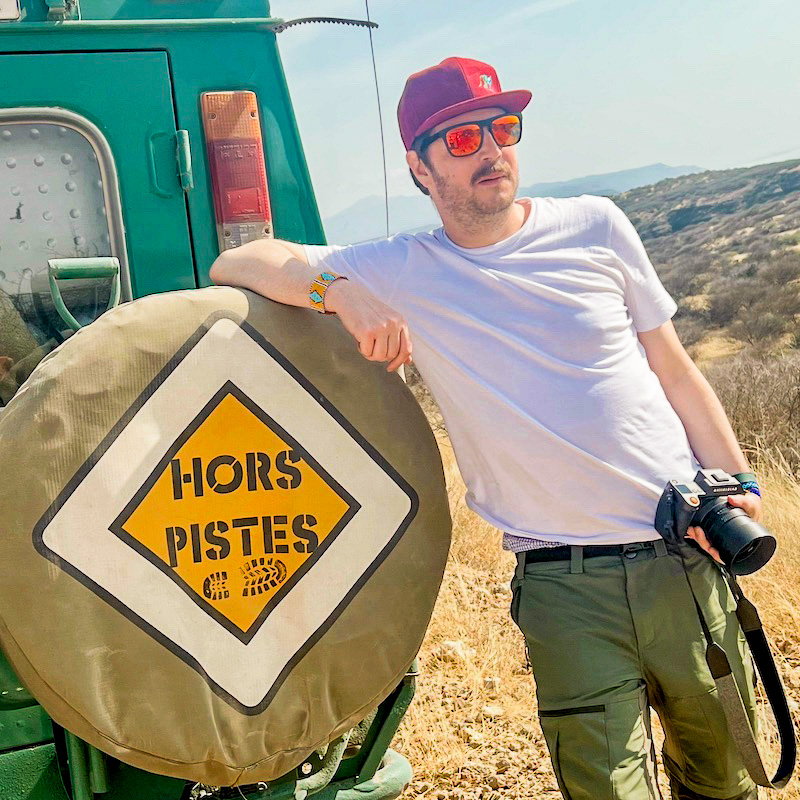
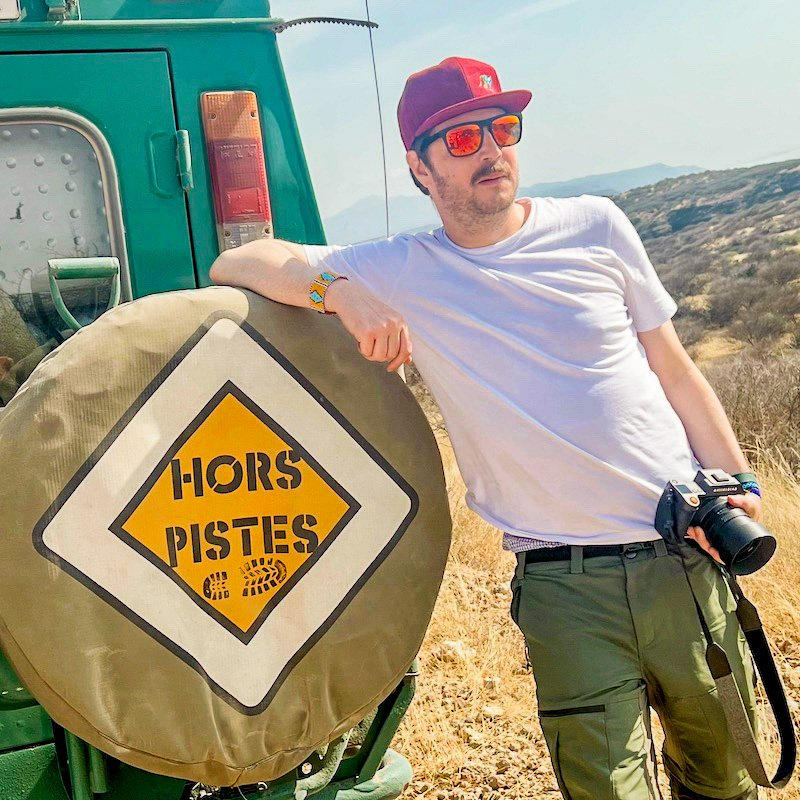
regen website

diff --git a/index.html b/index.html
@@ -11,6 +11,9 @@
 <meta property="og:image" content="https://www.jamesgalt.photo/journal/copenhagen-passages/og.jpg"><meta property="og:type" content="website">
 <meta property="og:url" content="https://www.jamesgalt.photo/">
 <meta name="twitter:card" content="summary_large_image">
+<link rel="icon" href="/favicon.png" sizes="any">
+<link rel="apple-touch-icon" href="/apple-touch-icon.png">
+<link rel="alternate" type="application/atom+xml" title="Journal" href="/journal/feed.xml">
 
 <style>
 :root{

diff --git a/journal/index.html b/journal/index.html
@@ -5,6 +5,9 @@
 <meta name="viewport" content="width=device-width, initial-scale=1">
 <title>Photo journal · jamesgalt.photo</title>
 <meta name="description" content="Photo journal by James Galt.">
+<link rel="icon" href="/favicon.png" sizes="any">
+<link rel="apple-touch-icon" href="/apple-touch-icon.png">
+<link rel="alternate" type="application/atom+xml" title="Journal" href="/journal/feed.xml">
 <style>
 :root{
   --bg:#0A0A0E; --bg-elev:#14141A; --text:#F5F5F7; --text-dim:#A1A1A6;